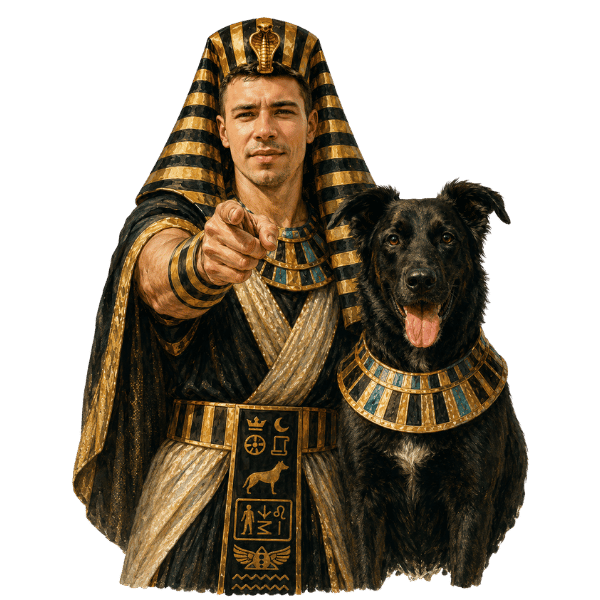
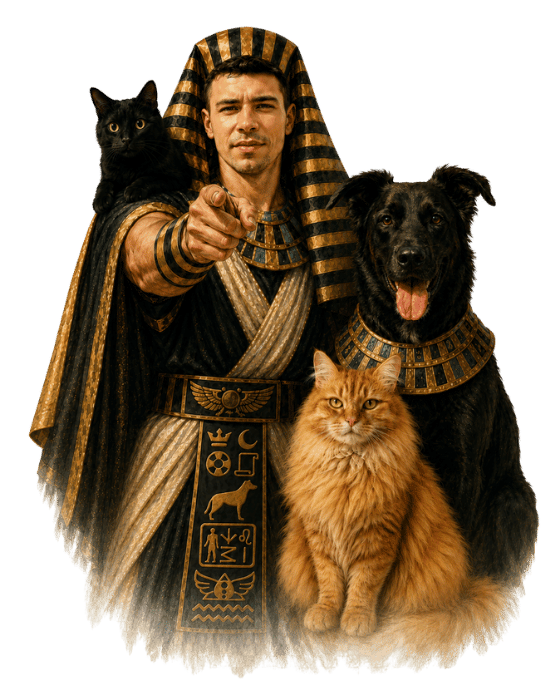
About: council form photo → pharaoh with Hekthor and cats (wewantyou)

diff --git a/src/components/landing/CouncilSection.tsx b/src/components/landing/CouncilSection.tsx
@@ -213,7 +213,7 @@ export function CouncilSection() {
       <div className="council-inner">
         <div className="council-card">
         <div className="council-figure">
-          <img src="/images/council-pharaoh.png" alt="A pharaoh and Hekthor — Dogypt needs you" />
+          <img src="/images/council-pharaoh.png" alt="A pharaoh with Hekthor and his cats — Dogypt needs you" />
           <h2 className="council-headline">We Need You.</h2>
         </div>
 
